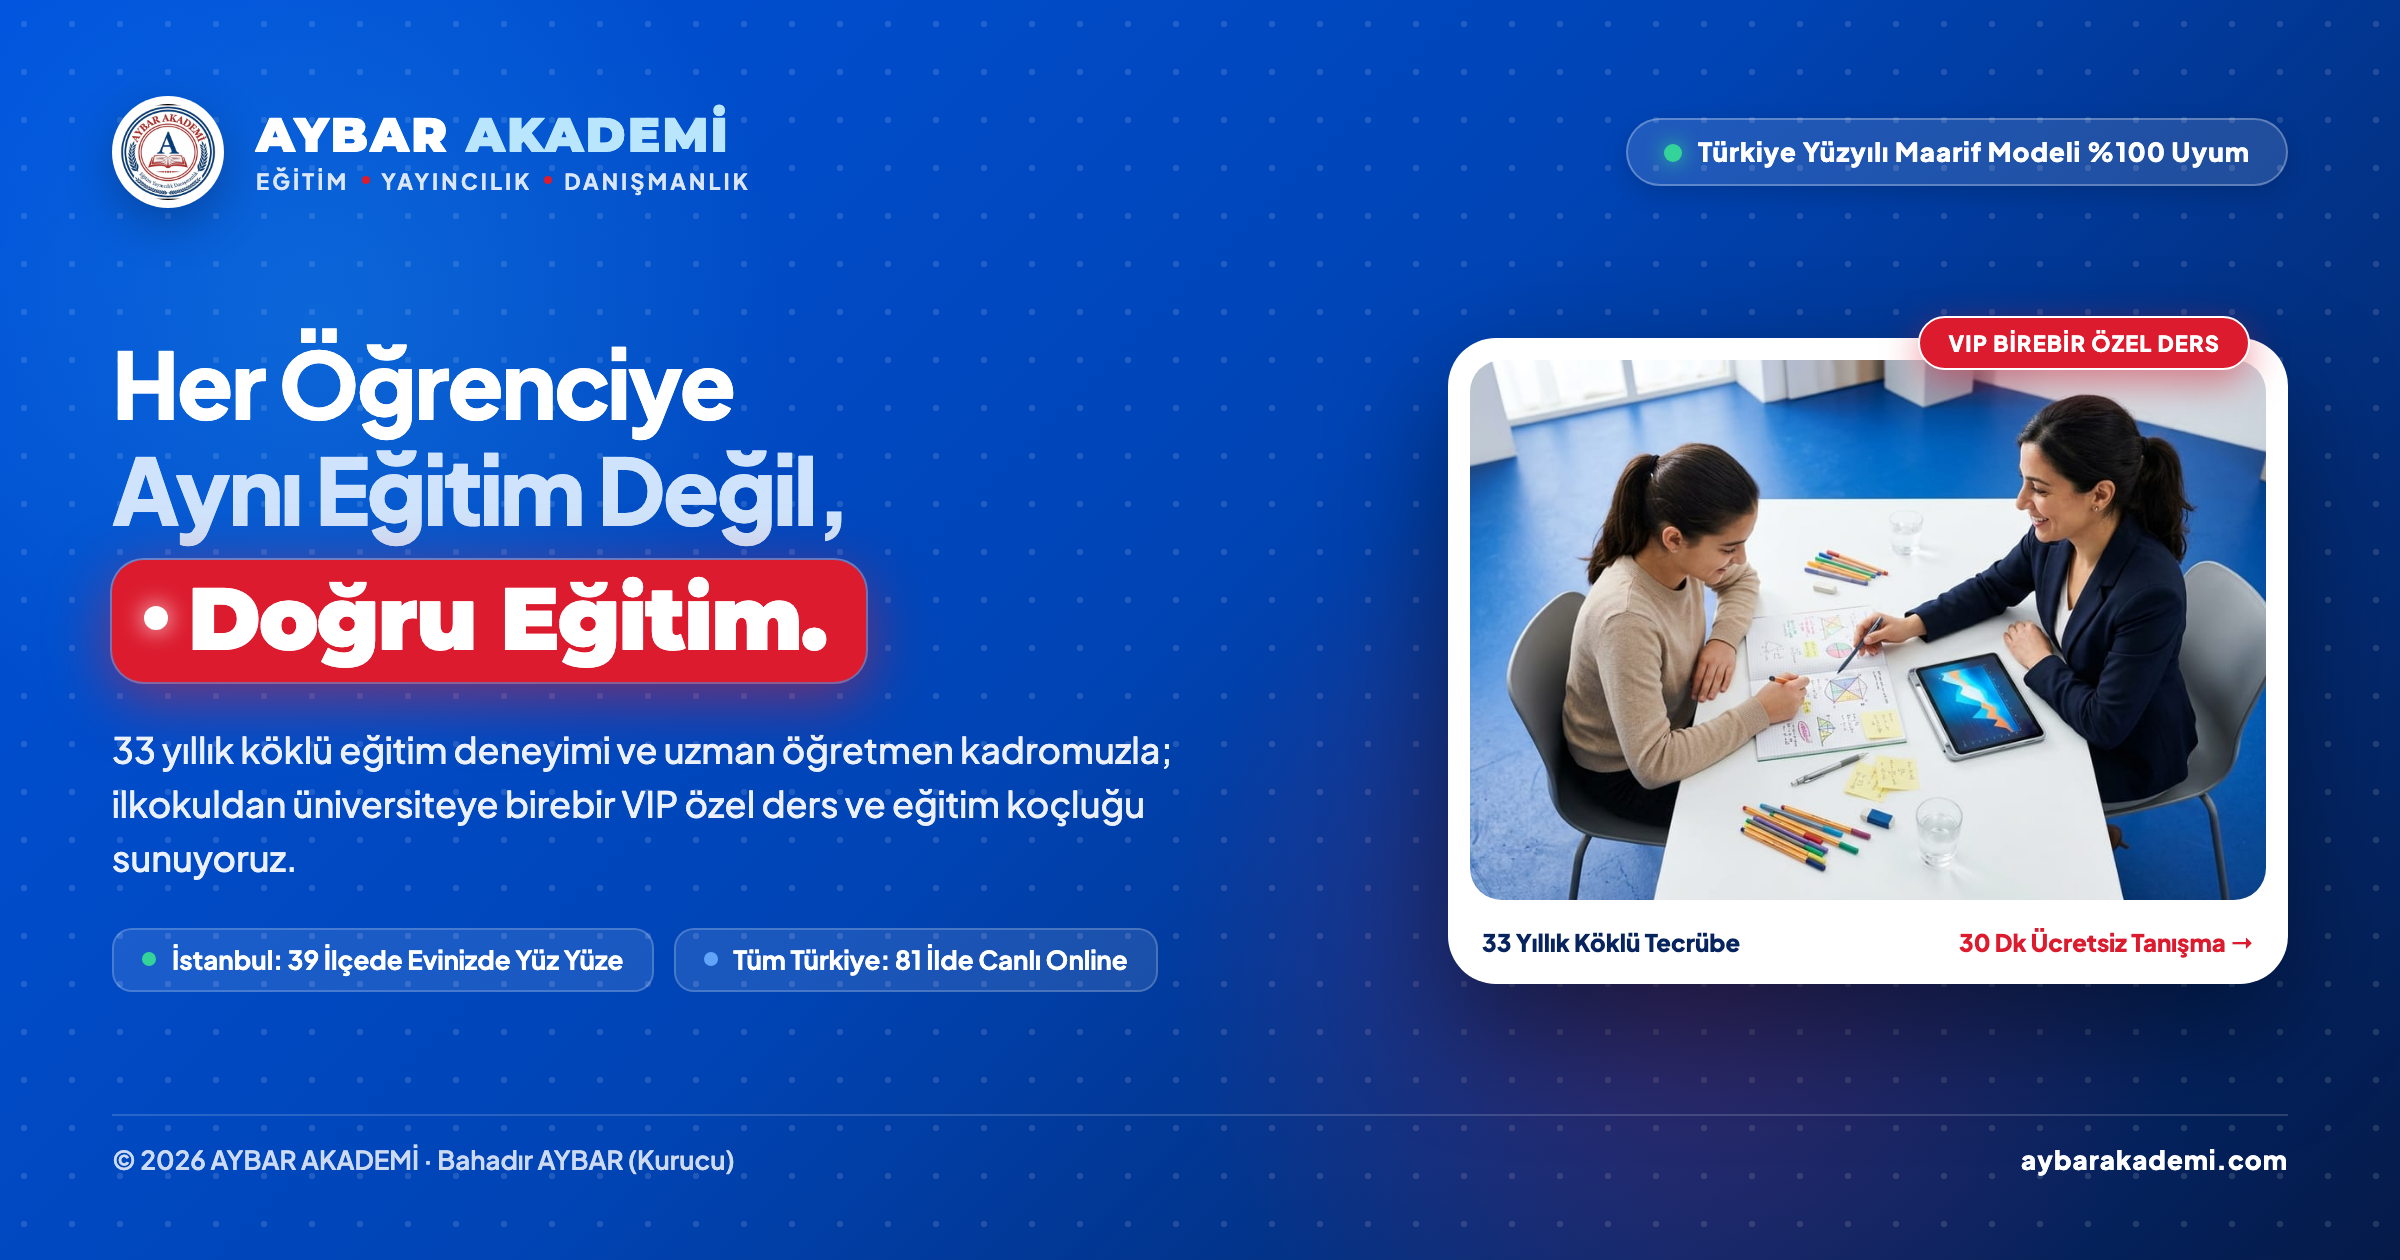
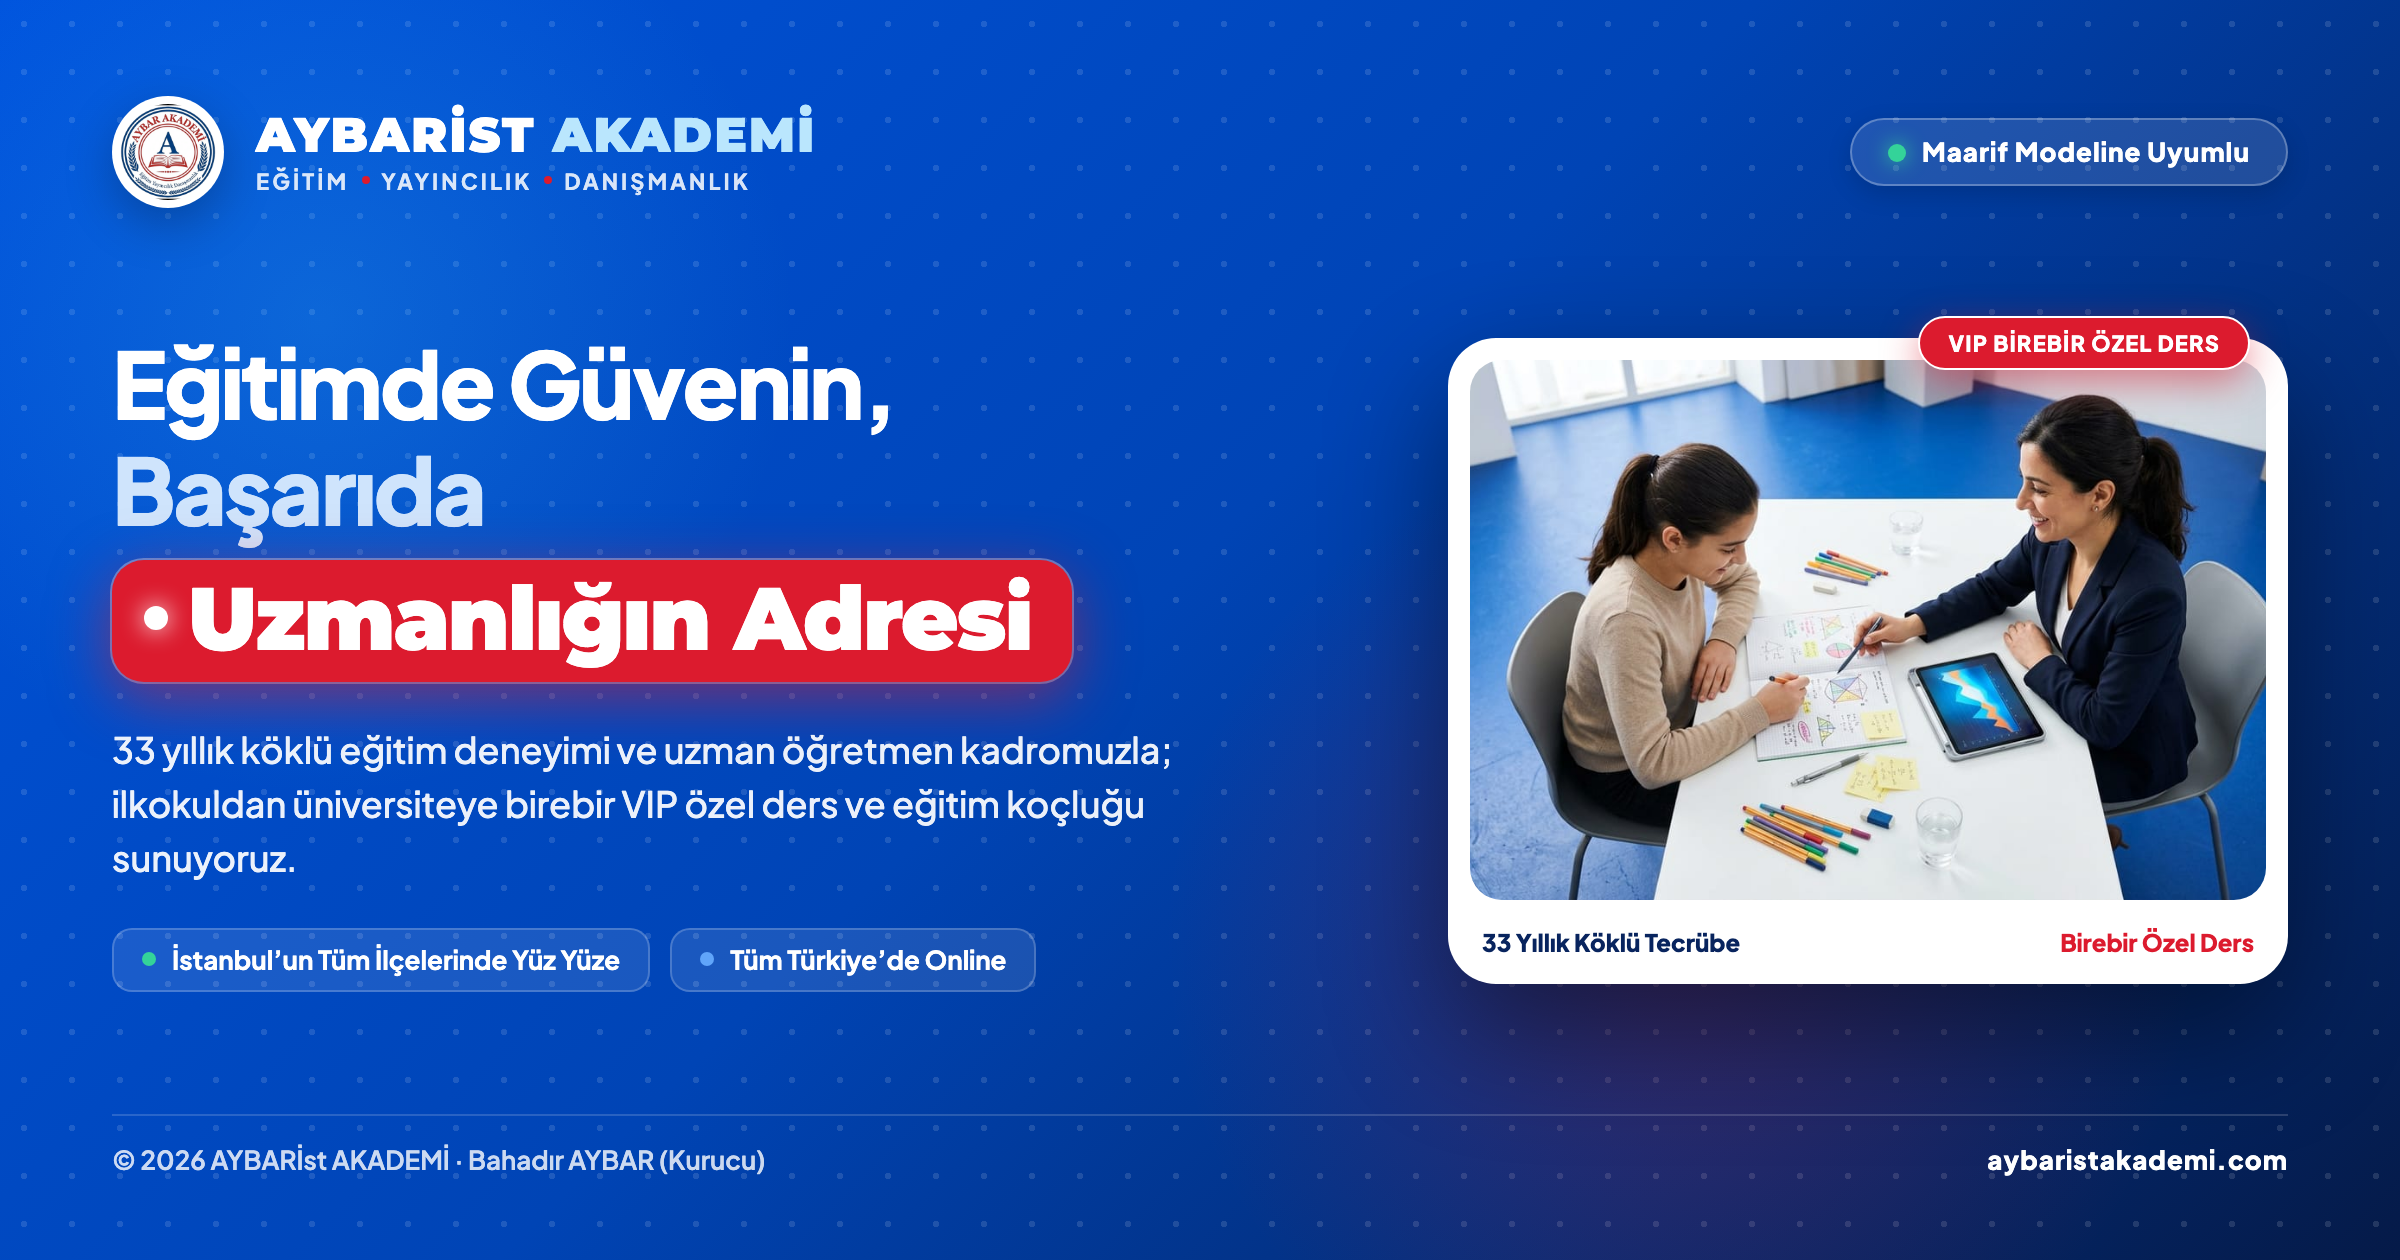
Alan adı aybaristakademi.com yapıldı, paylaşım görseli güncellendi

diff --git a/src/config/site.ts b/src/config/site.ts
@@ -15,7 +15,7 @@ export const SITE_URL =
   process.env.NEXT_PUBLIC_SITE_URL ||
   (IS_PREVIEW_MODE
     ? "https://erog1u.github.io/aybar-akademi"
-    : "https://aybarakademi.com");
+    : "https://aybaristakademi.com");
 
 export function assetPath(p: string): string {
   if (!p.startsWith("/")) return p;
@@ -50,7 +50,7 @@ export const siteConfig = {
       "Merhaba, AYBARİst AKADEMİ birebir özel ders programları hakkında bilgi almak istiyorum.",
     address:
       "Carousel AVM - Workinton, Zeytinlik Mah. Fişekhane Cad. No:5 İçkapı No:17 Bakırköy/İstanbul",
-    email: process.env.NEXT_PUBLIC_EMAIL || "iletisim@aybarakademi.com",
+    email: process.env.NEXT_PUBLIC_EMAIL || "iletisim@aybaristakademi.com",
     locations: {
       faceToFaceTitle: "İstanbul’un Tüm İlçelerinde",
       faceToFaceDetail:

diff --git a/src/app/onizleme/page.tsx b/src/app/onizleme/page.tsx
@@ -244,7 +244,7 @@ function StudioDesktopWindow({
         <div className="flex-1 max-w-lg mx-auto flex items-center gap-2 h-7 px-3 bg-cobalt-900/90 rounded-md border border-white/10 text-xs font-mono text-cobalt-200">
           <Lock className="h-3 w-3 text-emerald-400 shrink-0" />
           <span className="text-white/60">https://</span>
-          <span className="text-white font-medium">aybarakademi.com</span>
+          <span className="text-white font-medium">aybaristakademi.com</span>
           <span className="text-crimson-400 font-bold">
             {route === "/" ? "" : route}
           </span>

diff --git a/docs/CANLIYA_ALMA_REHBERI.md b/docs/CANLIYA_ALMA_REHBERI.md
@@ -8,7 +8,7 @@ Bu proje hem **korumalı önizleme** hem de **kalıcı, sıfır maliyetli ve ult
 
 Müşteriye gönderilen önizleme sürümünde (`NEXT_PUBLIC_PREVIEW_MODE=true`):
 1. **Kaynak Kod Gizliliği:** Sunucuda TypeScript / React kaynak kodları bulunmaz; yalnızca derlenmiş çıktılar yayınlanır. Tam kaynak kodlar gizli (`Private`) GitHub deposunda tutulur.
-2. **Alan Adı Kilidi (`Domain Lock`):** Önizleme dosyaları birisi tarafından indirilip başka bir alan adına (`aybarakademi.com` vb.) yüklense dahi sistem alan adını kontrol eder ve **"Yetkisiz Alan Adı — Eroğlu Solutions Lisans Koruması"** ekranıyla siteyi kilitler.
+2. **Alan Adı Kilidi (`Domain Lock`):** Önizleme dosyaları birisi tarafından indirilip başka bir alan adına (`aybaristakademi.com` vb.) yüklense dahi sistem alan adını kontrol eder ve **"Yetkisiz Alan Adı — Eroğlu Solutions Lisans Koruması"** ekranıyla siteyi kilitler.
 3. **Kopyalama, Sağ Tık, Görsel Sürükleme ve PDF Koruması:** Sağ tık menüsü, görsel sürükleme, metin kopyalama, `Ctrl/Cmd+S`, `Ctrl/Cmd+U` ve yazdırma (`Ctrl/Cmd+P` -> PDF kaydetme) devre dışıdır.
 4. **Hafif Kurumsal Filigran & Google İndeks Engeli (`noindex`):** Sayfa üzerinde performansı etkilemeyen şeffaf `EROĞLU SOLUTIONS · ÖNİZLEME` filigranı yer alır ve arama motorlarının önizleme linkini indekslemesi engellenir.
 
@@ -16,14 +16,14 @@ Müşteriye gönderilen önizleme sürümünde (`NEXT_PUBLIC_PREVIEW_MODE=true`)
 
 ---
 
-## 2. Gerçek Alan Adına (`aybarakademi.com` / `.com.tr`) En Sorunsuz Canlıya Alma Yöntemi
+## 2. Gerçek Alan Adına (`aybaristakademi.com` / `.com.tr`) En Sorunsuz Canlıya Alma Yöntemi
 
 Kendi sitenizde (`eroglusolutions.com`) kullandığınız **Gizli (Private) GitHub Deposu + Cloudflare Pages** altyapısı bu proje için de **en hızlı, en güvenli ve $0/ay maliyetli** çözümdür:
 
 ### Neden Cloudflare Pages?
 - **Türkiye İçi Ultra Düşük Gecikme (`<10ms`):** İstanbul CDN sunucuları üzerinden anında açılır, trafik limiti yoktur, çökme riski sıfırdır.
 - **%100 Gizli Kaynak Kod:** GitHub deposu **Private (Gizli)** olduğu için dışarıdan hiç kimse kodları veya dosyaları göremez / indiremez.
-- **Ücretsiz Otomatik SSL & Kurumsal E-Posta Yönlendirme:** `https://` sertifikası otomatik tanımlanır, `iletisim@aybarakademi.com` e-postaları ücretsiz olarak müşterinin Gmail adresine yönlendirilebilir.
+- **Ücretsiz Otomatik SSL & Kurumsal E-Posta Yönlendirme:** `https://` sertifikası otomatik tanımlanır, `iletisim@aybaristakademi.com` e-postaları ücretsiz olarak müşterinin Gmail adresine yönlendirilebilir.
 
 ### 3 Dakikada Canlıya Alma Adımları
 1. **Cloudflare Paneli** (`dash.cloudflare.com`) → **Workers & Pages** → **Create** → **Pages** → **Connect to Git**.
@@ -35,7 +35,7 @@ Kendi sitenizde (`eroglusolutions.com`) kullandığınız **Gizli (Private) GitH
    - **Build output directory:** `out`
    - **Environment variables:** `NODE_VERSION` = `20` *(Canlı yayında `NEXT_PUBLIC_PREVIEW_MODE` eklemeyin!)*
 4. **Save and Deploy** butonuna tıklayın.
-5. **Custom Domains** sekmesinden `aybarakademi.com` ve `www.aybarakademi.com` alan adlarını bağlayın.
+5. **Custom Domains** sekmesinden `aybaristakademi.com` ve `www.aybaristakademi.com` alan adlarını bağlayın.
 
 ---
 

diff --git a/CLAUDE.md b/CLAUDE.md
@@ -148,4 +148,4 @@ Claude Code ile devam ederken tamamlanması gereken nihai operasyonel adımlar:
 - [ ] **Müşteri Telefon Numarası:** Müşteriden nihai kurumsal telefon ve WhatsApp hattı geldiğinde sadece `src/config/site.ts` dosyasındaki `phoneDisplay`, `phoneHref` ve `whatsappNumber` alanları güncellenecektir.
 - [ ] **Müşteri Logosu:** Müşteri mevcut logoda ufak bir revize yapabileceğini belirtmiştir; yeni dosya gelirse `public/images/` altına konulup `src/config/site.ts` içindeki dosya adresi güncellenecektir.
 - [ ] **Ajans Bağlantısı:** `eroglusolutions.com` bağlantısı ve alt bilgi imzası teyit edilecektir.
-- [ ] **Cloudflare Pages Canlı Yayını:** Müşteri alan adı (`aybarakademi.com`) onaylandığında `docs/CANLIYA_ALMA_REHBERI.md` adımları takip edilerek Cloudflare Pages'a bağlanacaktır.
+- [ ] **Cloudflare Pages Canlı Yayını:** Müşteri alan adı (`aybaristakademi.com`) onaylandığında `docs/CANLIYA_ALMA_REHBERI.md` adımları takip edilerek Cloudflare Pages'a bağlanacaktır.
